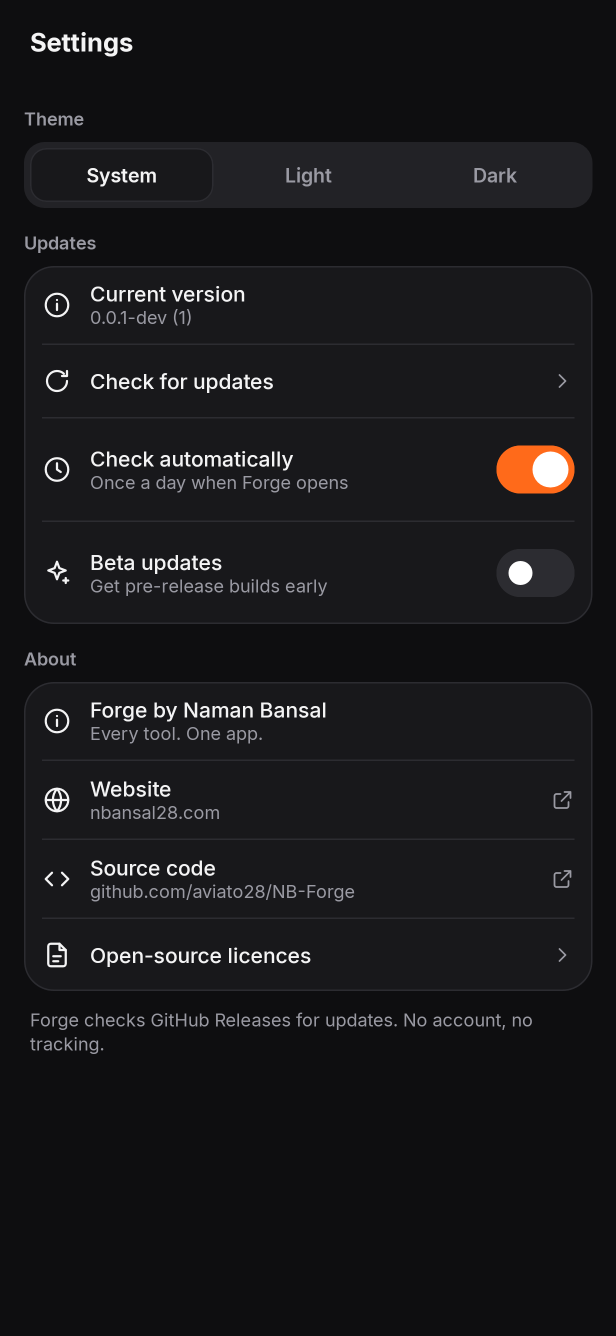
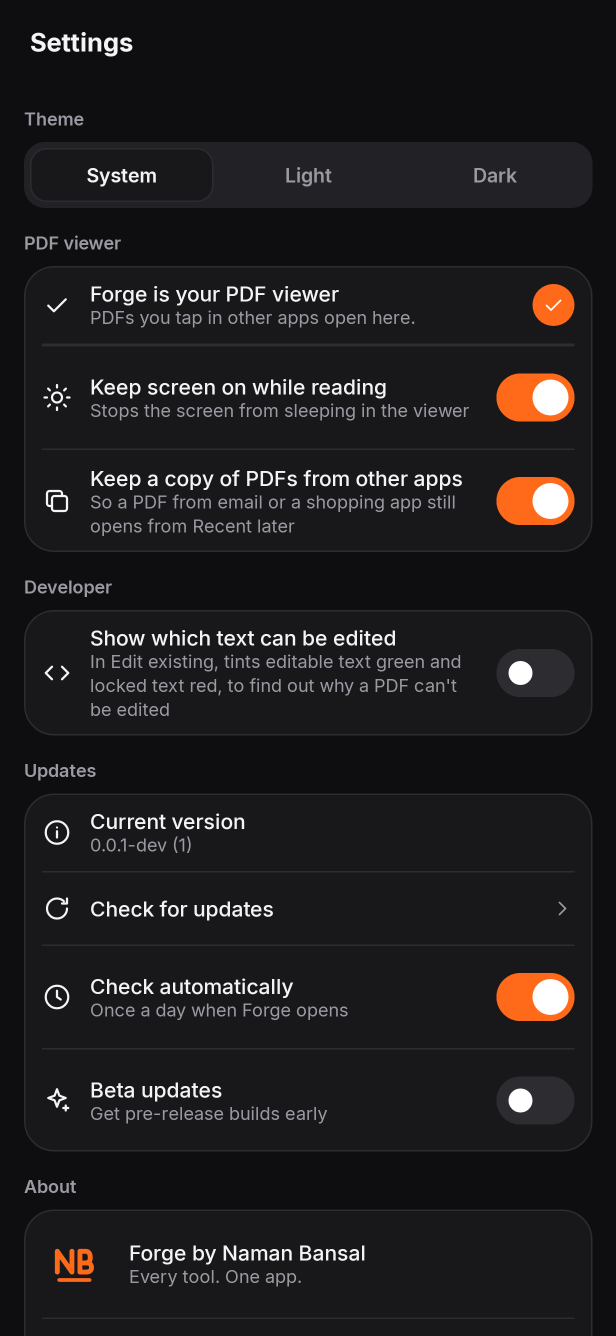
Chunk G: NB mark in the app (#14)
* Record parallel build tracks

Claude-Session: https://claude.ai/code/session_01QtjDEfUSeiytvFedJK5fax

* Chunk D: deps, device toolkit (sensors, permissions, prefs) and sensor maths with tests

Claude-Session: https://claude.ai/code/session_01QtjDEfUSeiytvFedJK5fax

* D1-D10 device tools: level, ruler, protractor, compass, sound meter, flashlight (+QS tile), magnifier, QR scanner, light and vibration meters

Claude-Session: https://claude.ai/code/session_01QtjDEfUSeiytvFedJK5fax

* Device tools: Compose smoke + screenshot tests (light/dark), barcode and torch tests, readout fix

Claude-Session: https://claude.ai/code/session_01QtjDEfUSeiytvFedJK5fax

* Utilities core logic: units, currency, calculator, percent, dates, time zones, timers, random, tally, EMI, health, QR payloads, with tests

Claude-Session: https://claude.ai/code/session_01QtjDEfUSeiytvFedJK5fax

* Utilities UI WIP: units, currency, calculator, percent, date, time zones screens; calculator key rules

Claude-Session: https://claude.ai/code/session_01QtjDEfUSeiytvFedJK5fax

* U1-U12 utilities: all screens, timer foreground service, volume-key tally, registry flipped to Available

Claude-Session: https://claude.ai/code/session_01QtjDEfUSeiytvFedJK5fax

* Chunk D: registry test covers device + utility tools, R8 rules, licences, screenshots

Claude-Session: https://claude.ai/code/session_01QtjDEfUSeiytvFedJK5fax

* Fix lint: volume keys via onKeyDown/onKeyUp, remembered states, VM outside composable
[…]

diff --git a/app/src/main/java/com/namanbansal/forge/ui/screens/SettingsScreen.kt b/app/src/main/java/com/namanbansal/forge/ui/screens/SettingsScreen.kt
@@ -6,6 +6,7 @@ import androidx.compose.foundation.layout.Box
 import androidx.compose.foundation.layout.Row
 import androidx.compose.foundation.shape.CircleShape
 import androidx.compose.material3.HorizontalDivider
+import androidx.compose.ui.text.font.FontWeight
 import androidx.compose.ui.Alignment
 import androidx.compose.ui.draw.clip
 import androidx.compose.ui.graphics.Color
@@ -42,6 +43,7 @@ import com.namanbansal.forge.ui.components.ForgeCard
 import com.namanbansal.forge.ui.components.ForgeSwitch
 import com.namanbansal.forge.ui.components.GroupLabel
 import com.namanbansal.forge.ui.components.ListRow
+import com.namanbansal.forge.ui.components.NbMark
 import com.namanbansal.forge.ui.components.Segmented
 import com.namanbansal.forge.ui.icons.ForgeIcons
 import com.namanbansal.forge.ui.theme.ForgeTheme
@@ -125,7 +127,18 @@ fun SettingsScreen(app: ForgeApp, settings: Settings, onLicenses: () -> Unit) {
             item {
                 GroupLabel("About")
                 ForgeCard(Modifier.fillMaxWidth()) {
-                    ListRow("Forge by Naman Bansal", subtitle = "Every tool. One app.", icon = ForgeIcons.Info, trailing = {})
+                    Row(
+                        Modifier.fillMaxWidth().padding(horizontal = 12.dp, vertical = 14.dp),
+                        verticalAlignment = Alignment.CenterVertically,
+                        horizontalArrangement = Arrangement.spacedBy(14.dp),
+                    ) {
+                        NbMark(44.dp)
+                        Column {
+                            Text("Forge by Naman Bansal", style = ForgeType.Item.copy(fontWeight = FontWeight.Medium), color = c.text)
+                            Text("Every tool. One app.", style = ForgeType.Small, color = c.text2)
+                        }
+                    }
+                    HorizontalDivider(Modifier.padding(horizontal = 12.dp), thickness = 1.dp, color = c.border)
                     ListRow("Website", subtitle = "nbansal28.com", icon = ForgeIcons.Globe, onClick = { uri.openUri(WEBSITE_URL) }, trailing = {
                         Icon(ForgeIcons.Open, null, tint = c.text2, modifier = Modifier.size(16.dp))
                     })

diff --git a/app/src/main/java/com/namanbansal/forge/ui/screens/HomeScreen.kt b/app/src/main/java/com/namanbansal/forge/ui/screens/HomeScreen.kt
@@ -73,6 +73,7 @@ import com.namanbansal.forge.ui.components.AnvilMark
 import com.namanbansal.forge.ui.components.EmptyState
 import com.namanbansal.forge.ui.components.ForgeCard
 import com.namanbansal.forge.ui.components.IconBox
+import com.namanbansal.forge.ui.components.NbMark
 import com.namanbansal.forge.ui.components.SectionHeader
 import com.namanbansal.forge.ui.icons.ForgeIcons
 import com.namanbansal.forge.ui.theme.ForgeShapes
@@ -131,7 +132,10 @@ fun HomeScreen(
                 Spacer(Modifier.width(10.dp))
                 Column(Modifier.weight(1f)) {
                     Text("FORGE", style = ForgeType.Brand, color = c.text)
-                    Text("by Naman Bansal", style = ForgeType.Tiny.copy(fontWeight = FontWeight.Medium), color = c.text2)
+                    Row(verticalAlignment = Alignment.CenterVertically, horizontalArrangement = Arrangement.spacedBy(5.dp)) {
+                        NbMark(13.dp)
+                        Text("by Naman Bansal", style = ForgeType.Tiny.copy(fontWeight = FontWeight.Medium), color = c.text2)
+                    }
                 }
                 RoundIconButton(ForgeIcons.Settings, "Settings", onSettings)
             }

diff --git a/app/src/main/java/com/namanbansal/forge/ui/components/Components.kt b/app/src/main/java/com/namanbansal/forge/ui/components/Components.kt
@@ -217,6 +217,16 @@ fun AnvilMark(size: Dp = 26.dp) {
     }
 }
 
+/** The NB monogram on the anvil-icon tile (res/drawable/ic_nb_mark.xml, source docs/brand/icons/nb-mark.svg). */
+@Composable
+fun NbMark(size: Dp = 20.dp, modifier: Modifier = Modifier) {
+    androidx.compose.foundation.Image(
+        painter = androidx.compose.ui.res.painterResource(com.namanbansal.forge.R.drawable.ic_nb_mark),
+        contentDescription = "NB",
+        modifier = modifier.size(size),
+    )
+}
+
 @Composable
 fun EmptyState(icon: ImageVector, title: String, body: String, modifier: Modifier = Modifier) {
     val c = ForgeTheme.colors

diff --git a/docs/DECISIONS.md b/docs/DECISIONS.md
@@ -108,3 +108,9 @@ Source: annotated `Forge-Longlist.pdf` (returned by owner, 2026-11-02).
 - **HDR**: HDR input exported as H.264 is tone-mapped to SDR (OpenGL); exported as HEVC the HDR is kept. Result notes say which happened.
 - **GIF**: own median-cut quantiser (15-bit histogram, per-frame palette), Floyd-Steinberg dithering (serpentine) and an LZW writer; frames via `MediaMetadataRetriever` (exact seek). The first second is encoded for real to preview and to extrapolate the file size.
 - **Speed**: pitch-corrected audio (Media3 speed provider) up to 2x, audio removed above that.
+
+## Chunk G: NB mark and website (2026-11-13)
+- **NB monogram**: geometric N and B drawn as 8-unit rounded strokes in Ember Orange on the anvil icon's charcoal tile, with a short rounded bar underneath that echoes the anvil's foot. Files: `docs/brand/icons/nb-mark.svg` (tile), `nb-mark-mono.svg` (single colour), `res/drawable/ic_nb_mark.xml` (tile, used by `NbMark`).
+- Used in Settings → About (replaces the info icon on "Forge by Naman Bansal") and next to "by Naman Bansal" in the home header. The system splash stays the anvil icon alone.
+- **Site**: forge.nbansal28.com (branch `forge-site` in aviato28/nbansal28-site, not merged or deployed) serves `/update/latest.json?channel=stable|beta` and `/download/apk` from GitHub Releases of this repo, with the same field rules as `GitHubReleasesSource` (version from tag, versionCode = last tag segment, sha256 from the asset `digest`).
+- **`ForgeSiteSource` is NOT switched on yet.** `UpdateConfig.USE_FORGE_SITE` stays `false` until forge.nbansal28.com is live and serving `/update/latest.json`; then flip it in a normal release (the site's `apk` URL is a 302 to the GitHub asset, which the app's downloader follows).
